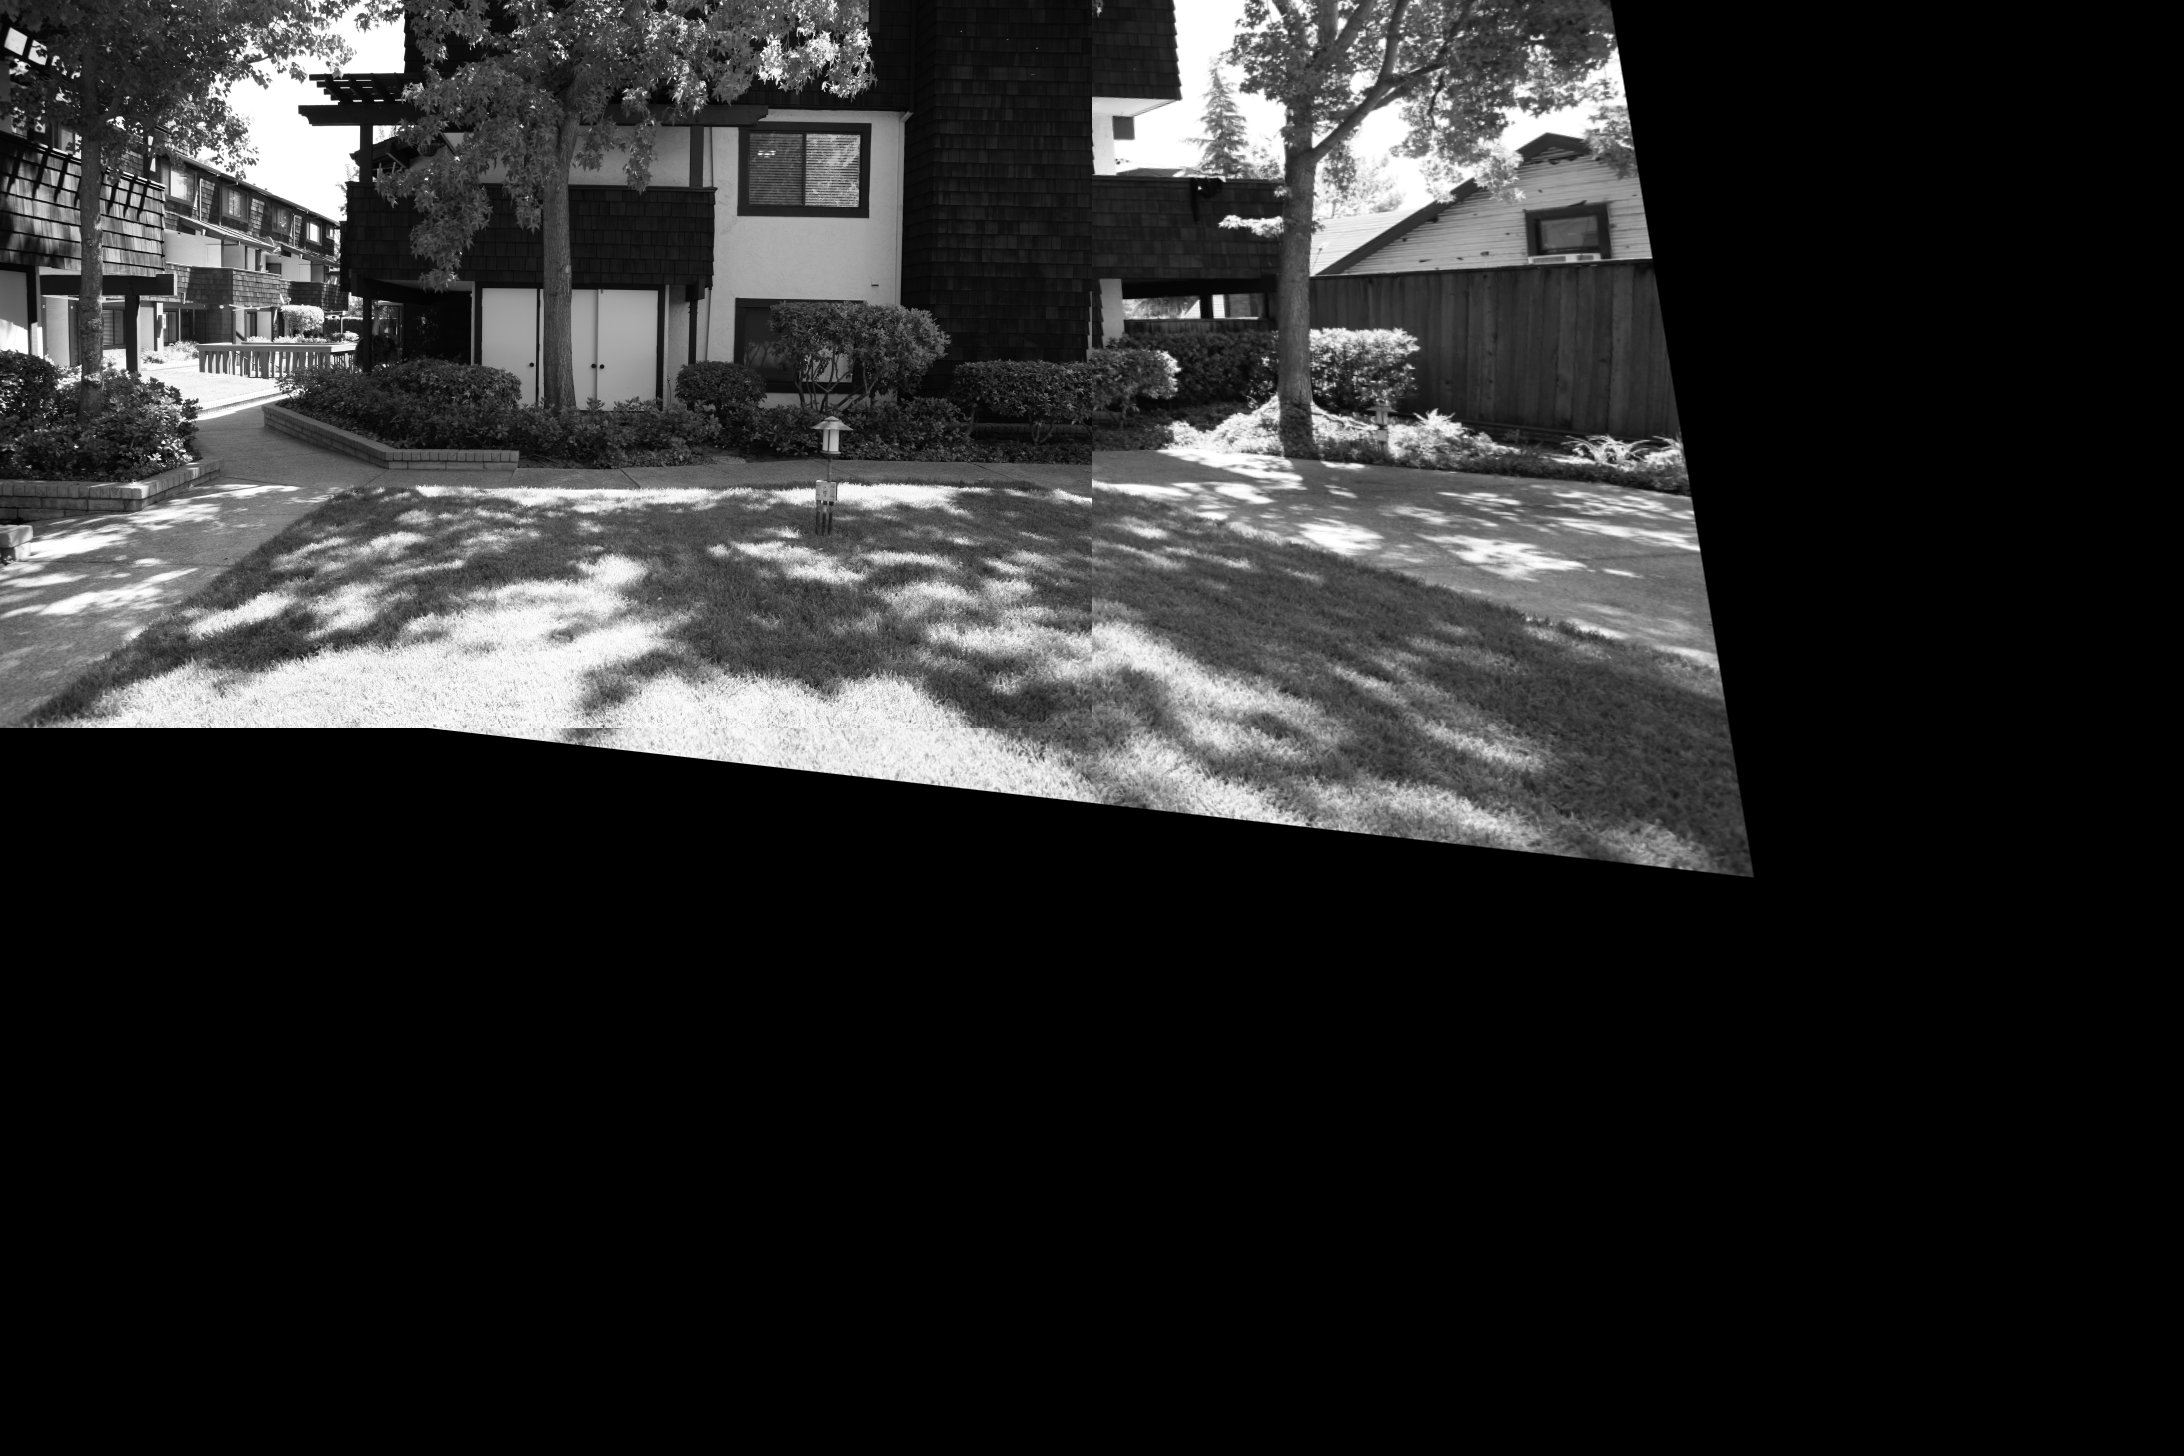
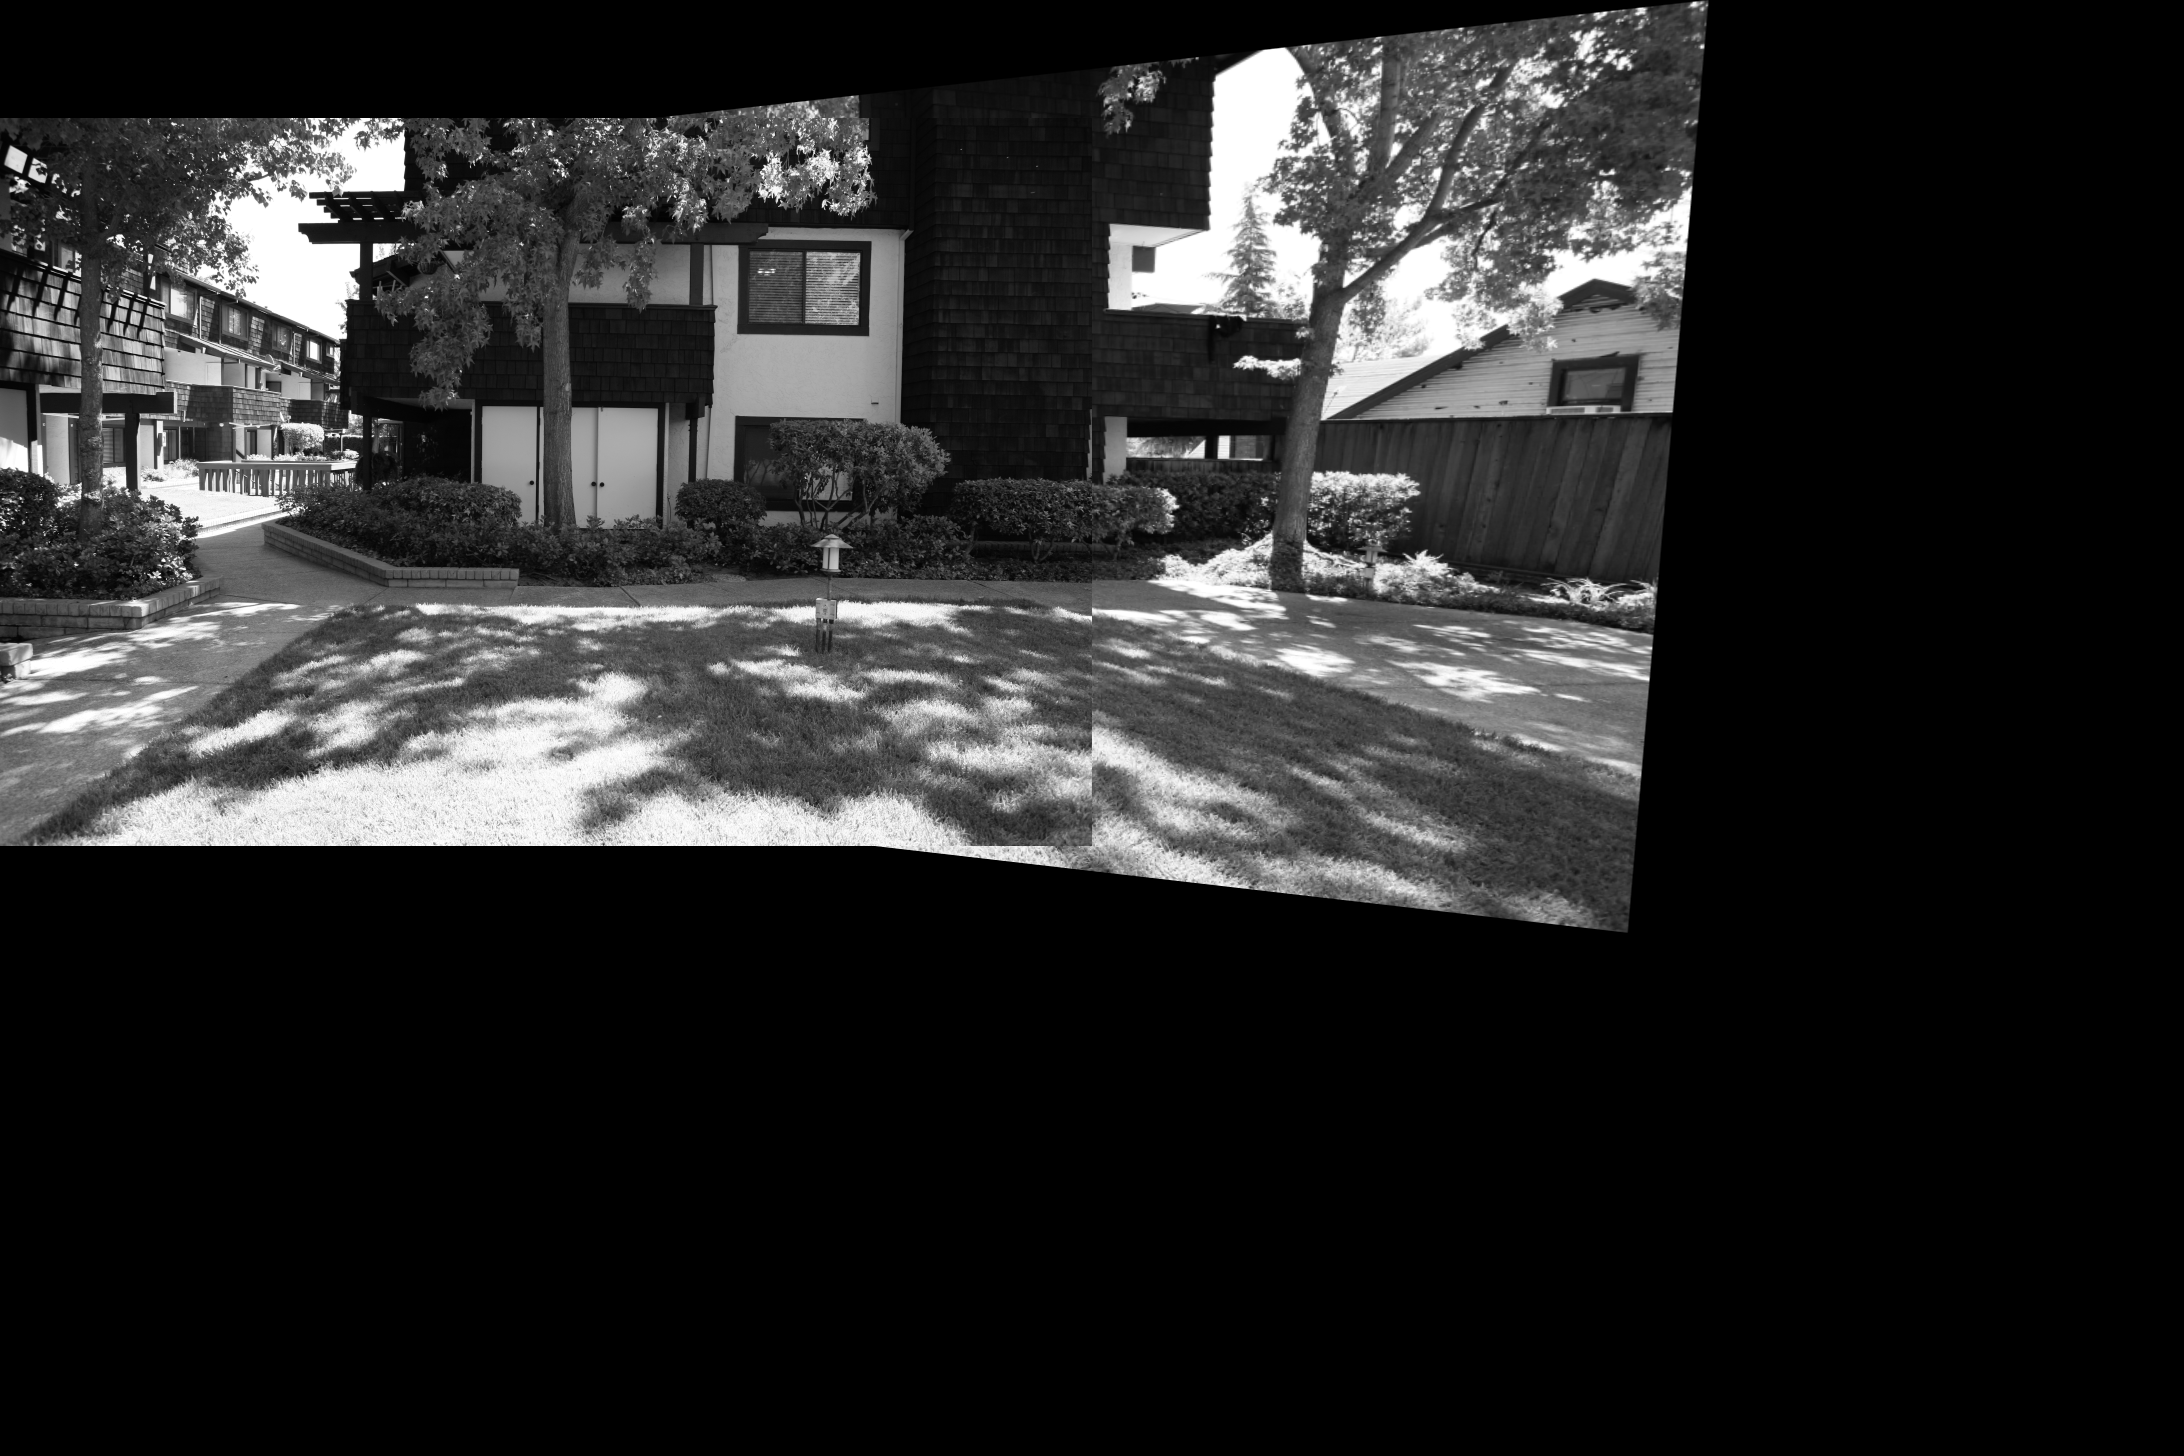
Added result images

diff --git a/04/180050085_180050090_180070060_lab03_midsem/code/pano-auto.py b/04/180050085_180050090_180070060_lab03_midsem/code/pano-auto.py
@@ -33,14 +33,6 @@ if __name__ == "__main__":
 	kpt, ftt = descriptor.detectAndCompute(train_img_bw,None)
 
 
-	fig, (ax1,ax2) = plt.subplots(nrows=1, ncols=2, figsize=(20,8), constrained_layout=False)
-	ax1.imshow(cv.drawKeypoints(train_img,kpq,None,color=(0,255,0)))
-	ax1.set_xlabel("(a)", fontsize=14)
-	ax2.imshow(cv.drawKeypoints(query_img,kpt,None,color=(0,255,0)))
-	ax2.set_xlabel("(b)", fontsize=14)
-	plt.show()
-
-
 	# create BFMatcher object
 	# bf = cv.BFMatcher(cv.NORM_HAMMING, crossCheck=False)
 	# matches = bf.knnMatch(ftq, ftt, k = 2)
